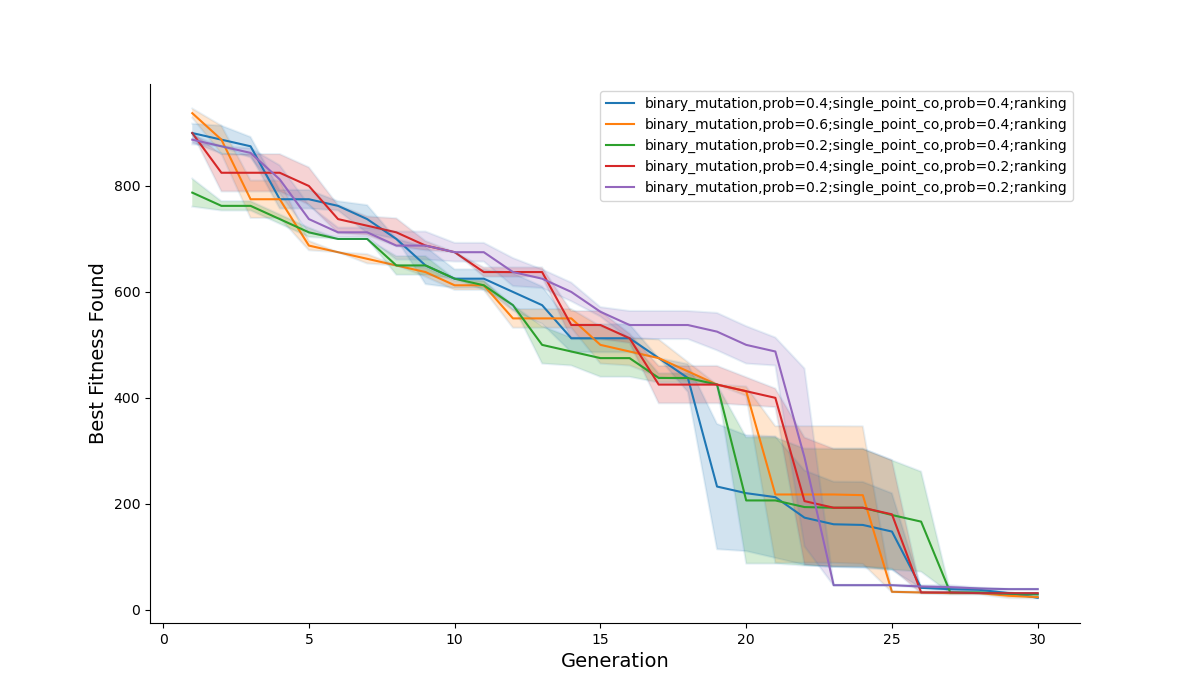
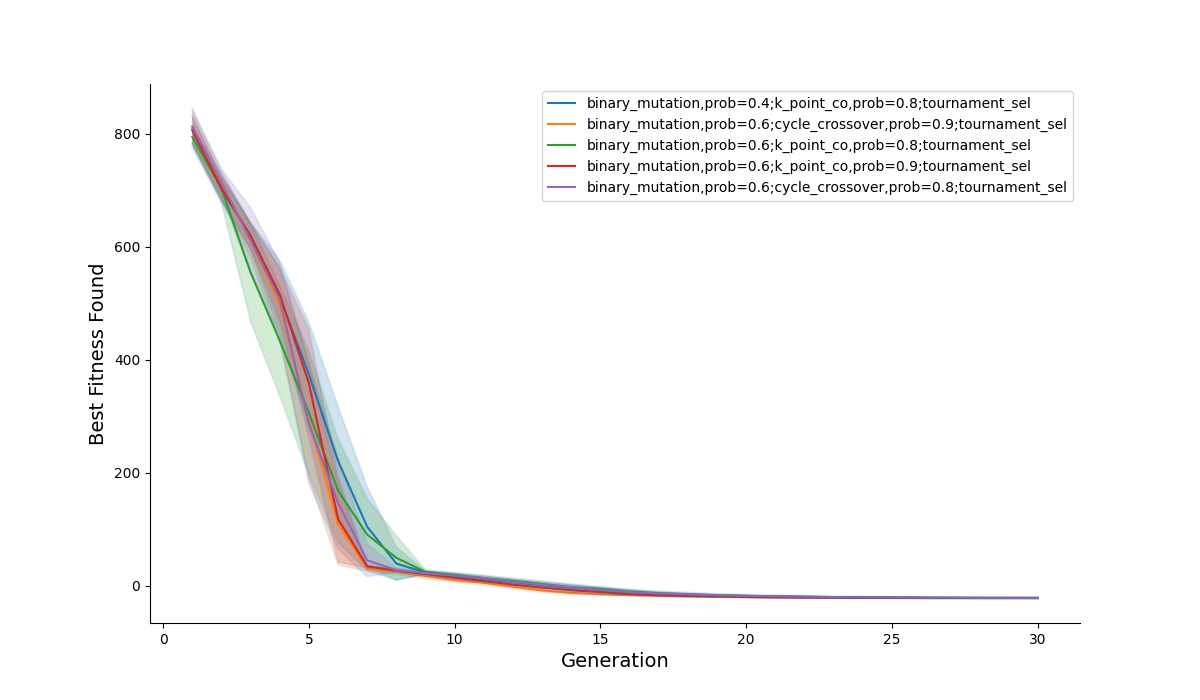
gridsearch
- gridsearch sem selection
- escolha do melhor selection

diff --git a/nqueens.py b/nqueens.py
@@ -44,7 +44,6 @@ Individual.get_fitness = get_fitness_regression
 
 
 # tournament_exp_avg = tournament_exp[1]
-# tournament_exp_full = tournament_exp [0]
 
 
 # ## making plot and getting the best infividuals
@@ -253,101 +252,148 @@ Individual.get_fitness = get_fitness_regression
 # f.close()
 
 
-########################################### final search for the best algorithm! #######################################################
+########################################### grid search for the best crossover and mutation #######################################################
 
-grid_parameters = {'mutation': [binary_mutation, swap_mutation, inversion_mutation],
-                   'mut_prob': [0.2,0.4,0.6,0.8,0.9],
-                   'crossover': [single_point_co, k_point_co, cycle_crossover, pmx],
-                   'xo_prob': [0.2,0.4,0.6,0.8,0.9],
-                   'selection': [ranking, tournament_sel, double_tournament]
+# grid_parameters = {'mutation': [binary_mutation, swap_mutation, inversion_mutation],
+#                    'mut_prob': [0.2,0.4,0.6,0.8,0.9],
+#                    'crossover': [single_point_co, k_point_co, cycle_crossover],
+#                    'xo_prob': [0.7,0.8,0.9], #only high values
+#                    'selection': [tournament_sel]
+#                 }
+
+# grid_search_exp = grid_search(grid_parameters, 10) #done for 10x10 chessboard
+# grid_search_exp_final = grid_search_exp[0]
+# grid_search_exp_avg = grid_search_exp[1]
+
+
+# # lets start a list where we have the first 5 solutions; we want to plot only the best solutions.
+# best_list = grid_search_exp_avg[:5]
+
+# # function to sort the list of dictionaries by the best fitness of each dataframe inside the dictionary
+# def get_min_fitness(dictionary):
+#     df = dictionary['df']
+#     min_fitness = df[('best_fitness','mean')].min()
+#     return min_fitness
+
+# # Sort the list of dictionaries based on the minimum fitness value of the dataframes inside it
+# best_list_sorted = sorted(best_list, key=get_min_fitness)
+
+# # print([get_min_fitness(best_list_sorted[i]) for i in range(len(best_list_sorted))])
+
+# # run in every dict in the list 
+# for i in range(5, len(grid_search_exp_avg)):
+
+#     # see if the current dictionary has better final fitness than the worst in our list (the last element)
+#     if get_min_fitness(grid_search_exp_avg[i]) < get_min_fitness(best_list_sorted[-1]):
+
+#         best_list_sorted[-1] = grid_search_exp_avg[i]
+
+#     best_list_sorted.sort(key=get_min_fitness)
+
+# # print([get_min_fitness(best_list_sorted[i]) for i in range(len(best_list_sorted))])
+
+# track_dic_grid = {}
+
+# mutation_grid = []
+# mut_prob_grid = []
+# crossover_grid = []
+# co_prob_grid = []
+# selection_grid = []
+# bf_grid = []
+
+# fig, ax = plt.subplots(figsize=(12,7))
+
+# for i in range(len(best_list_sorted)):
+
+#     mutation_grid.append(best_list_sorted[i]['parameters']['mutation'].__name__)
+#     mut_prob_grid.append(best_list_sorted[i]['parameters']['mut_prob'])
+#     crossover_grid.append(best_list_sorted[i]['parameters']['crossover'].__name__)
+#     co_prob_grid.append(best_list_sorted[i]['parameters']['xo_prob'])
+#     selection_grid.append(best_list_sorted[i]['parameters']['selection'].__name__)
+#     bf_grid.append(min(best_list_sorted[i]['df'][('best_fitness','mean')]))
+
+#     ax.plot(best_list_sorted[i]['df'].index, best_list_sorted[i]['df'][('best_fitness','mean')], 
+#             label = f"{best_list_sorted[i]['parameters']['mutation'].__name__},prob={best_list_sorted[i]['parameters']['mut_prob']};{best_list_sorted[i]['parameters']['crossover'].__name__},prob={best_list_sorted[i]['parameters']['xo_prob']};{best_list_sorted[i]['parameters']['selection'].__name__}")
+#     ax.plot(best_list_sorted[i]['df'].index, best_list_sorted[i]['df'][('best_fitness','lower_bound')], color='tab:blue', alpha=0.1)
+#     ax.plot(best_list_sorted[i]['df'].index, best_list_sorted[i]['df'][('best_fitness','upper_bound')], color='tab:blue', alpha=0.1)
+#     ax.fill_between(best_list_sorted[i]['df'].index, best_list_sorted[i]['df'][('best_fitness','lower_bound')], best_list_sorted[i]['df'][('best_fitness','upper_bound')], alpha=0.2)
+#     ax.set_xlabel('Generation',size = 14)
+#     ax.set_ylabel('Best Fitness Found', size = 14)
+#     ax.spines['top'].set_visible(False)
+#     ax.spines['right'].set_visible(False)
+#     ax.legend()
+
+
+# track_dic_grid['mutation'] = mutation_grid
+# track_dic_grid['mut_prob'] = mut_prob_grid
+# track_dic_grid['crossover'] = crossover_grid
+# track_dic_grid['xo_prob'] = co_prob_grid
+# track_dic_grid['selection'] = selection_grid
+# track_dic_grid['best_fitness_avg'] = bf_grid
+
+
+# f = open("results_final_grid.txt", "a")
+# f.write("Final grid search testing results\n\n")
+# f.write(str(track_dic_grid)+'\n\n')
+# track_dic_grid_df = pd.DataFrame(track_dic_grid).sort_values(by='best_fitness_avg')
+# track_dic_grid_df.sort_values(by='best_fitness_avg', inplace=True)
+# f.write(tabulate(track_dic_grid_df,tablefmt="github", headers='keys'))
+# f.write('\n\n\n')
+
+# f.close()
+
+# plt.savefig('final_grid.png')
+# plt.show()
+
+######################################## find out if other selection algorithms work best ! ##############################################
+
+selection_parameters = {'mutation': [binary_mutation,],
+                   'mut_prob': [0.6],
+                   'crossover': [cycle_crossover],
+                   'xo_prob': [0.9],
+                   'selection': [tournament_sel, double_tournament, ranking]
                 }
 
-# grid_parameters = {'mutation': [binary_mutation],
-#                    'mut_prob': [0.2,0.4,0.6],
-#                    'crossover': [single_point_co],
-#                    'xo_prob': [0.2,0.4],
-#                    'selection': [ranking]
-#                 } #these were for testing purposes
-
-grid_search_exp_final = grid_search(grid_parameters, 10)[0] #done for 10x10 chessboard
-grid_search_exp_avg = grid_search(grid_parameters, 10)[1]
+sel_search_exp = grid_search(selection_parameters, 10) #done for 10x10 chessboard
+sel_search_exp_avg = sel_search_exp[1]
 
 
-# lets start a list where we have the first 5 solutions; we want to plot only the best solutions.
-best_list = grid_search_exp_avg[:5]
+track_dic_sel= {}
 
-# function to sort the list of dictionaries by the best fitness of each dataframe inside the dictionary
-def get_min_fitness(dictionary):
-    df = dictionary['df']
-    min_fitness = df[('best_fitness','mean')].min()
-    return min_fitness
-
-# Sort the list of dictionaries based on the minimum fitness value of the dataframes inside it
-best_list_sorted = sorted(best_list, key=get_min_fitness)
-
-# print([get_min_fitness(best_list_sorted[i]) for i in range(len(best_list_sorted))])
-
-# run in every dict in the list 
-for i in range(5, len(grid_search_exp_avg)):
-
-    # see if the current dictionary has better final fitness than the worst in our list (the last element)
-    if get_min_fitness(grid_search_exp_avg[i]) < get_min_fitness(best_list_sorted[-1]):
-
-        best_list_sorted[-1] = grid_search_exp_avg[i]
-
-    best_list_sorted.sort(key=get_min_fitness)
-
-# print([get_min_fitness(best_list_sorted[i]) for i in range(len(best_list_sorted))])
-
-track_dic_grid = {}
-
-mutation_grid = []
-mut_prob_grid = []
-crossover_grid = []
-co_prob_grid = []
-selection_grid = []
-bf_grid = []
+selection_sel = []
+bf_sel = []
 
 fig, ax = plt.subplots(figsize=(12,7))
 
-for i in range(len(best_list_sorted)):
+for i in range(len(sel_search_exp_avg)):
 
-    mutation_grid.append(best_list_sorted[i]['parameters']['mutation'].__name__)
-    mut_prob_grid.append(best_list_sorted[i]['parameters']['mut_prob'])
-    crossover_grid.append(best_list_sorted[i]['parameters']['crossover'].__name__)
-    co_prob_grid.append(best_list_sorted[i]['parameters']['xo_prob'])
-    selection_grid.append(best_list_sorted[i]['parameters']['selection'].__name__)
-    bf_grid.append(min(best_list_sorted[i]['df'][('best_fitness','mean')]))
+    selection_sel.append(sel_search_exp_avg[i]['parameters']['selection'].__name__)
+    bf_sel.append(min(sel_search_exp_avg[i]['df'][('best_fitness','mean')]))
 
-    ax.plot(best_list_sorted[i]['df'].index, best_list_sorted[i]['df'][('best_fitness','mean')], 
-            label = f"{best_list_sorted[i]['parameters']['mutation'].__name__},prob={best_list_sorted[i]['parameters']['mut_prob']};{best_list_sorted[i]['parameters']['crossover'].__name__},prob={best_list_sorted[i]['parameters']['xo_prob']};{best_list_sorted[i]['parameters']['selection'].__name__}")
-    ax.plot(best_list_sorted[i]['df'].index, best_list_sorted[i]['df'][('best_fitness','lower_bound')], color='tab:blue', alpha=0.1)
-    ax.plot(best_list_sorted[i]['df'].index, best_list_sorted[i]['df'][('best_fitness','upper_bound')], color='tab:blue', alpha=0.1)
-    ax.fill_between(best_list_sorted[i]['df'].index, best_list_sorted[i]['df'][('best_fitness','lower_bound')], best_list_sorted[i]['df'][('best_fitness','upper_bound')], alpha=0.2)
+    ax.plot(sel_search_exp_avg[i]['df'].index, sel_search_exp_avg[i]['df'][('best_fitness','mean')], 
+            label = f"{sel_search_exp_avg[i]['parameters']['selection'].__name__}")
+    ax.plot(sel_search_exp_avg[i]['df'].index, sel_search_exp_avg[i]['df'][('best_fitness','lower_bound')], color='tab:blue', alpha=0.1)
+    ax.plot(sel_search_exp_avg[i]['df'].index, sel_search_exp_avg[i]['df'][('best_fitness','upper_bound')], color='tab:blue', alpha=0.1)
+    ax.fill_between(sel_search_exp_avg[i]['df'].index, sel_search_exp_avg[i]['df'][('best_fitness','lower_bound')], sel_search_exp_avg[i]['df'][('best_fitness','upper_bound')], alpha=0.2)
     ax.set_xlabel('Generation',size = 14)
     ax.set_ylabel('Best Fitness Found', size = 14)
     ax.spines['top'].set_visible(False)
     ax.spines['right'].set_visible(False)
     ax.legend()
 
-
-track_dic_grid['mutation'] = mutation_grid
-track_dic_grid['mut_prob'] = mut_prob_grid
-track_dic_grid['crossover'] = crossover_grid
-track_dic_grid['xo_prob'] = co_prob_grid
-track_dic_grid['selection'] = selection_grid
-track_dic_grid['best_fitness_avg'] = bf_grid
+track_dic_sel['selection'] = selection_sel
+track_dic_sel['best_fitness_avg'] = bf_sel
 
 
-f = open("results_final_grid.txt", "a")
-f.write("Final grid search testing results\n\n")
-f.write(str(track_dic_grid)+'\n\n')
-track_dic_grid_df = pd.DataFrame(track_dic_grid).sort_values(by='best_fitness_avg')
+f = open("results_selection.txt", "a")
+f.write("Results for testing different selection algorithms\n\n")
+f.write(str(track_dic_sel)+'\n\n')
+track_dic_grid_df = pd.DataFrame(track_dic_sel).sort_values(by='best_fitness_avg')
 track_dic_grid_df.sort_values(by='best_fitness_avg', inplace=True)
 f.write(tabulate(track_dic_grid_df,tablefmt="github", headers='keys'))
 f.write('\n\n\n')
 
 f.close()
 
-plt.savefig('final_grid.png')
+plt.savefig('selection_grid.png')
 plt.show()

diff --git a/testfunctions.py b/testfunctions.py
@@ -159,6 +159,8 @@ def grid_search(pars, n):
 
     for dictionary in ds: 
         print(dictionary)
+        i+=1
+        print(i,'/', len(ds))
 
         data = run_experiment(n = n,runs=30, pop_size = 200, crossover_prob = dictionary["xo_prob"],
                                                 mutation_prob = dictionary['mut_prob'], 

diff --git a/charles/crossover.py b/charles/crossover.py
@@ -67,7 +67,7 @@ def pmx(p1, p2):
     p1_indexes = sample(range(len(p1)), len(p1))
     p2_indexes = sample(range(len(p2)), len(p2))
 
-    xo_points = sample(range(len(p1_indexes))+1, 2)
+    xo_points = sample(range(len(p1_indexes)+1), 2)
     xo_points.sort()
 
     window_p1 = {}
